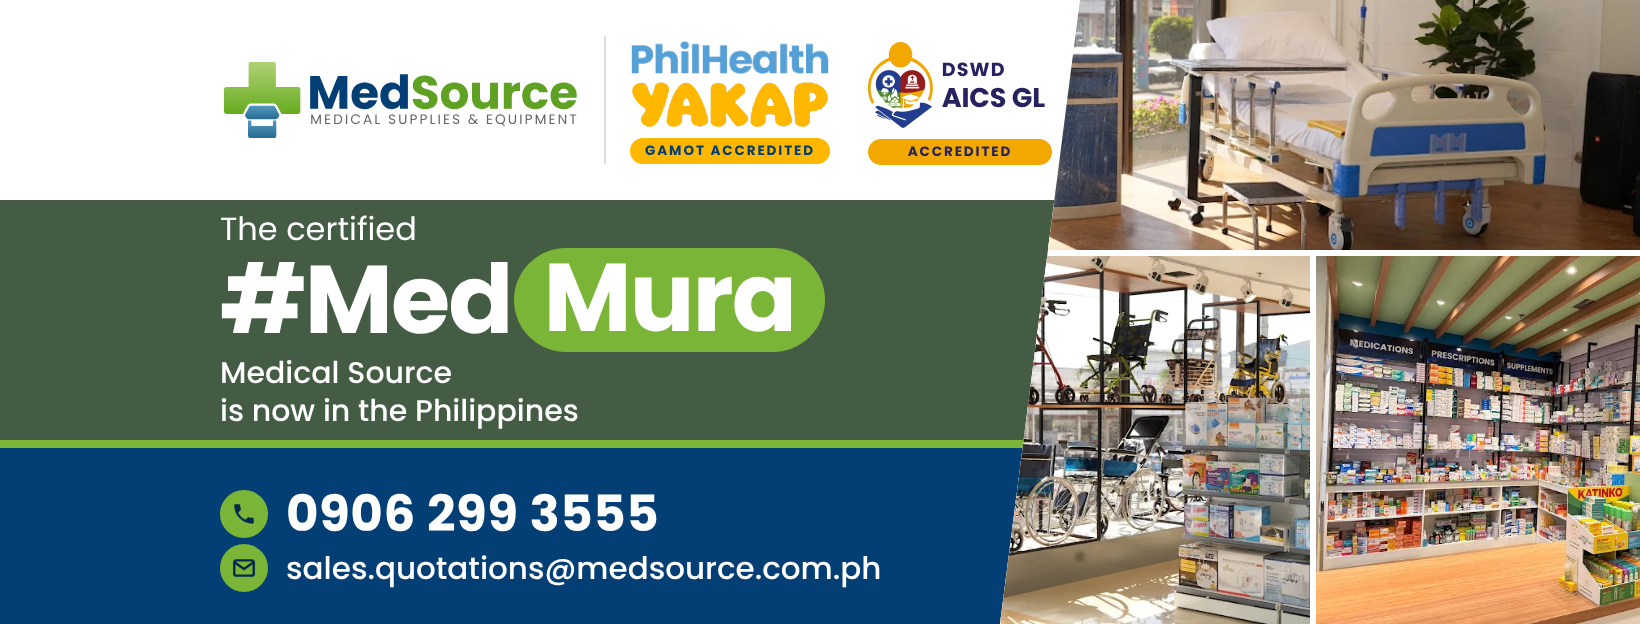
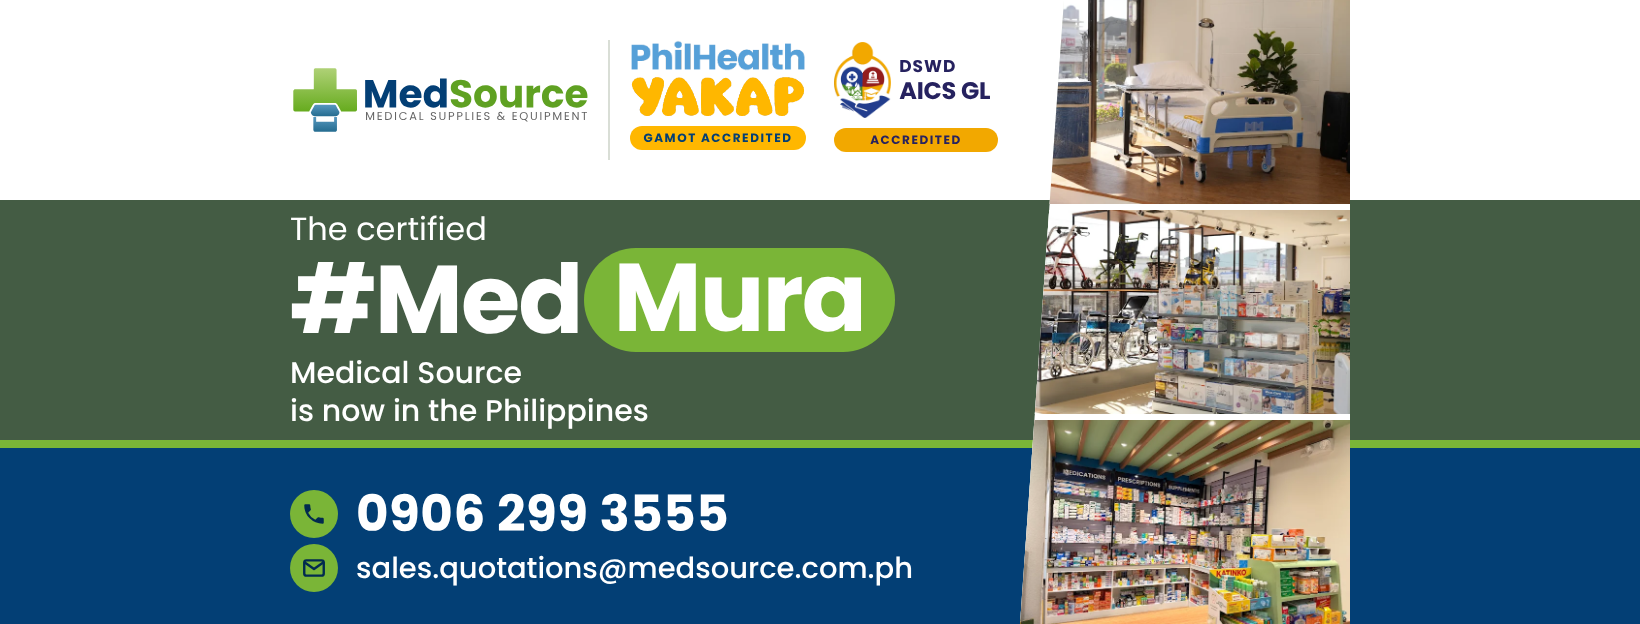
Optimize MedSource Facebook cover for desktop and phone safe zones
Claude-Session: https://claude.ai/code/session_01TSvvzaW7cd1urpd5UAcBQJ

diff --git a/medsource/posts/2026-10-12-facebook-cover/source/cover.html b/medsource/posts/2026-10-12-facebook-cover/source/cover.html
@@ -5,62 +5,48 @@
 @font-face{font-family:Poppins;font-weight:700;src:url(../../../brand/fonts/poppins/Poppins-Bold.ttf)}
 *{margin:0;padding:0;box-sizing:border-box}
 body{width:1640px;height:624px;background:#fff;font-family:Poppins,sans-serif;position:relative;overflow:hidden}
-.logo{position:absolute;left:220px;top:58px;height:84px}
+/* safe zone for phones: x 265 to 1375. Content lives in x 290 to 1350 */
 .band{position:absolute;left:0;top:200px;width:1640px;height:240px;background:#445C44}
 .stripe{position:absolute;left:0;top:440px;width:1640px;height:8px;background:#7AB537}
 .foot{position:absolute;left:0;top:448px;width:1640px;height:176px;background:#033F75}
-.hero{position:absolute;left:220px;top:210px;color:#fff;width:780px}
+.logo{position:absolute;left:290px;top:65px;height:70px}
+.sep{position:absolute;left:608px;top:40px;width:2px;height:120px;background:#D9DED6}
+.hero{position:absolute;left:290px;top:210px;color:#fff;width:720px}
 .l1{font-size:32px;line-height:38px;font-weight:400}
 .l2{display:flex;align-items:center;font-size:96px;line-height:104px;font-weight:700;letter-spacing:-0.02em}
 .pill{background:#7AB537;border-radius:9999px;padding:0 30px 4px;margin-left:2px;line-height:100px}
 .l3{font-size:30px;line-height:38px;font-weight:500;margin-top:2px}
-.row{position:absolute;left:220px;display:flex;align-items:center;color:#fff}
+.row{position:absolute;left:290px;display:flex;align-items:center;color:#fff}
 .ic{width:48px;height:48px;border-radius:50%;background:#7AB537;display:flex;align-items:center;justify-content:center;margin-right:18px}
 .r1{top:476px;font-size:50px;font-weight:700;letter-spacing:.01em}
-.r2{top:544px;font-size:31px;font-weight:500}
-.sep{position:absolute;left:606px;top:36px;width:2px;height:128px;background:#D9DED6}
-.ac{position:absolute;text-align:center;color:#033F75;font-weight:500;font-size:16px;line-height:20px}
-.ac img{display:block;margin:0 auto}
-.acA{left:640px;top:44px;width:200px}
-.acA img.ph{width:200px;margin-top:0}
-.acA img.yk{width:200px;margin-top:5px}
-.acB{left:905px;top:28px;width:140px}
-.acB img{height:112px;width:auto}
-.acA span,.acB span{display:block;margin-top:8px}
-.acA span{margin-top:15px}
-.panel{position:absolute;left:980px;top:0;width:660px;height:624px;clip-path:polygon(100px 0,100% 0,100% 100%,20px 100%);background:#fff}
-.slot{position:absolute;background-color:#E9EFE6;background-size:cover;background-repeat:no-repeat;color:#033F75;display:flex;flex-direction:column;align-items:center;justify-content:center;text-align:center;font-weight:700;font-size:20px;letter-spacing:.08em;text-transform:uppercase}
-.slot small{display:block;font-weight:500;font-size:16px;letter-spacing:.02em;text-transform:none;margin-top:6px;color:#5A6470}
-.s1{left:0;top:0;width:660px;height:250px}
-.s2{left:0;top:256px;width:330px;height:368px}
-.s3{left:336px;top:256px;width:324px;height:368px}
-.sep{left:604px!important}
+.r2{top:544px;font-size:29px;font-weight:500}
 .lk{position:absolute;top:40px;display:flex;flex-direction:column}
-.lkA{left:630px;width:200px}
-.lkA img{display:block;width:200px}
-.lkA img.yk{margin-top:5px}
-.pill2{margin-top:9px;height:26px;border-radius:13px;display:flex;align-items:center;justify-content:center;font-weight:700;font-size:13.5px;letter-spacing:.14em;text-transform:uppercase;color:#033F75;background:#FFB700;white-space:nowrap}
-.lkB{left:868px;width:184px}
-.lkB .top{display:flex;align-items:center;height:90px}
-.lkB .top img{height:86px;width:auto;display:block;margin-right:9px}
-.lkB .txt{color:#26225F;font-weight:700;line-height:1;letter-spacing:-.01em}
-.lkB .txt b{display:block;font-size:19px;letter-spacing:.06em;font-weight:700;margin-bottom:5px}
-.lkB .txt span{display:block;font-size:27px}
+.lkA{left:630px;width:176px}
+.lkA img{display:block;width:176px}
+.lkA img.yk{margin-top:4px}
+.pill2{margin-top:8px;height:24px;border-radius:12px;display:flex;align-items:center;justify-content:center;font-weight:700;font-size:12px;letter-spacing:.13em;text-transform:uppercase;color:#033F75;background:#FFB700;white-space:nowrap}
+.lkB{left:834px;width:164px}
+.lkB .top{display:flex;align-items:center;height:80px}
+.lkB .top img{height:76px;width:auto;display:block;margin-right:8px}
+.lkB .txt{color:#26225F;font-weight:700;line-height:1}
+.lkB .txt b{display:block;font-size:17px;letter-spacing:.06em;margin-bottom:4px}
+.lkB .txt span{display:block;font-size:24px;letter-spacing:-.01em}
 .lkB .pill2{background:#F2A800;color:#26225F}
+.panel{position:absolute;left:1020px;top:0;width:330px;height:624px;clip-path:polygon(44px 0,100% 0,100% 100%,0 100%);background:#fff}
+.slot{position:absolute;left:0;width:330px;height:204px;background-size:cover;background-repeat:no-repeat;background-color:#E9EFE6}
+.s1{top:0;background-image:url(photo1.webp);background-position:50% 60%}
+.s2{top:210px;background-image:url(photo3.webp);background-position:50% 60%}
+.s3{top:420px;background-image:url(photo2.webp);background-position:50% 15%}
 </style></head><body>
-<img class="logo" src="../../../brand/logos/medsource/medsource-landscape.svg">
 <div class="band"></div><div class="stripe"></div><div class="foot"></div>
+<img class="logo" src="../../../brand/logos/medsource/medsource-landscape.svg">
+<div class="sep"></div>
+<div class="lk lkA"><img src="ph.png"><img class="yk" src="yk.png"><div class="pill2">Gamot Accredited</div></div>
+<div class="lk lkB"><div class="top"><img src="aics-icon.png"><div class="txt"><b>DSWD</b><span>AICS GL</span></div></div><div class="pill2">Accredited</div></div>
 <div class="hero"><div class="l1">The certified</div>
 <div class="l2"><span>#Med</span><span class="pill">Mura</span></div>
 <div class="l3">Medical Source<br>is now in the Philippines</div></div>
 <div class="row r1"><span class="ic"><svg width="26" height="26" viewBox="0 0 24 24" fill="#022A4F"><path d="M6.6 10.8a15 15 0 006.6 6.6l2.2-2.2a1 1 0 011-.25 11.4 11.4 0 003.6.57 1 1 0 011 1V20a1 1 0 01-1 1A17 17 0 013 4a1 1 0 011-1h3.5a1 1 0 011 1c0 1.25.2 2.45.57 3.57a1 1 0 01-.25 1z"/></svg></span>0906 299 3555</div>
 <div class="row r2"><span class="ic"><svg width="26" height="26" viewBox="0 0 24 24" fill="none" stroke="#022A4F" stroke-width="2.2" stroke-linecap="round" stroke-linejoin="round"><rect x="3" y="5" width="18" height="14" rx="2"/><path d="M3.5 7l8.5 6 8.5-6"/></svg></span>sales.quotations@medsource.com.ph</div>
-<div class="sep"></div>
-<div class="lk lkA"><img class="ph" src="ph.png"><img class="yk" src="yk.png"><div class="pill2">Gamot Accredited</div></div>
-<div class="lk lkB"><div class="top"><img src="aics-icon.png"><div class="txt"><b>DSWD</b><span>AICS GL</span></div></div><div class="pill2">Accredited</div></div>
-<div class="panel">
-<div class="slot s1" style="background-image:url(photo1.webp);background-position:50% 68%"></div>
-<div class="slot s2" style="background-image:url(photo3.webp);background-position:12% 50%"></div>
-<div class="slot s3" style="background-image:url(photo2.webp);background-position:18% 50%"></div>
-</div>
+<div class="panel"><div class="slot s1"></div><div class="slot s2"></div><div class="slot s3"></div></div>
 </body></html>

diff --git a/medsource/posts/2026-10-12-facebook-cover/post.md b/medsource/posts/2026-10-12-facebook-cover/post.md
@@ -8,13 +8,19 @@
 | Status | Approved |
 | Design | Built from the MedSource Design System as HTML, see [`source/cover.html`](source/cover.html) |
 
-Page cover announcing "The certified #MedMura, Medical Source is now in the Philippines". Forest headline band with the green Mura pill, navy contact footer (0906 299 3555, sales.quotations@medsource.com.ph), PhilHealth YAKAP and DSWD AICS GL accreditation badges beside the logo, and a diagonal photo panel with the hospital bed, equipment and pharmacy shelves. All text sits inside the centre 1200 px so it survives mobile cropping.
+Page cover announcing "The certified #MedMura, Medical Source is now in the Philippines". Forest headline band with the green Mura pill, navy contact footer (0906 299 3555, sales.quotations@medsource.com.ph), PhilHealth YAKAP and DSWD AICS GL accreditation badges beside the logo, and a slim diagonal photo column with the hospital bed, equipment and pharmacy shelves.
 
 Not scheduled: a cover is uploaded by hand on the Facebook page, so there is no Metricool post, story or captions.
+
+## Device fit
+
+Facebook shows one cover at 820 × 312 on desktop and 640 × 360 on phones, which trims the sides. The file is 1640 × 624 (2x desktop). Everything essential (logo, badges, headline, contacts, all three photos) sits inside the phone-safe centre, x 290 to 1350, so nothing is clipped on phones. The outer 270 px each side is plain band colour. The bottom-left corner stays clear of the profile photo on desktop. See [`device-preview.png`](device-preview.png).
 
 ## Image
 
 <img src="facebook-cover-1640x624.png" width="640">
+
+<img src="device-preview.png" width="430">
 
 ## Accreditation badges
 
